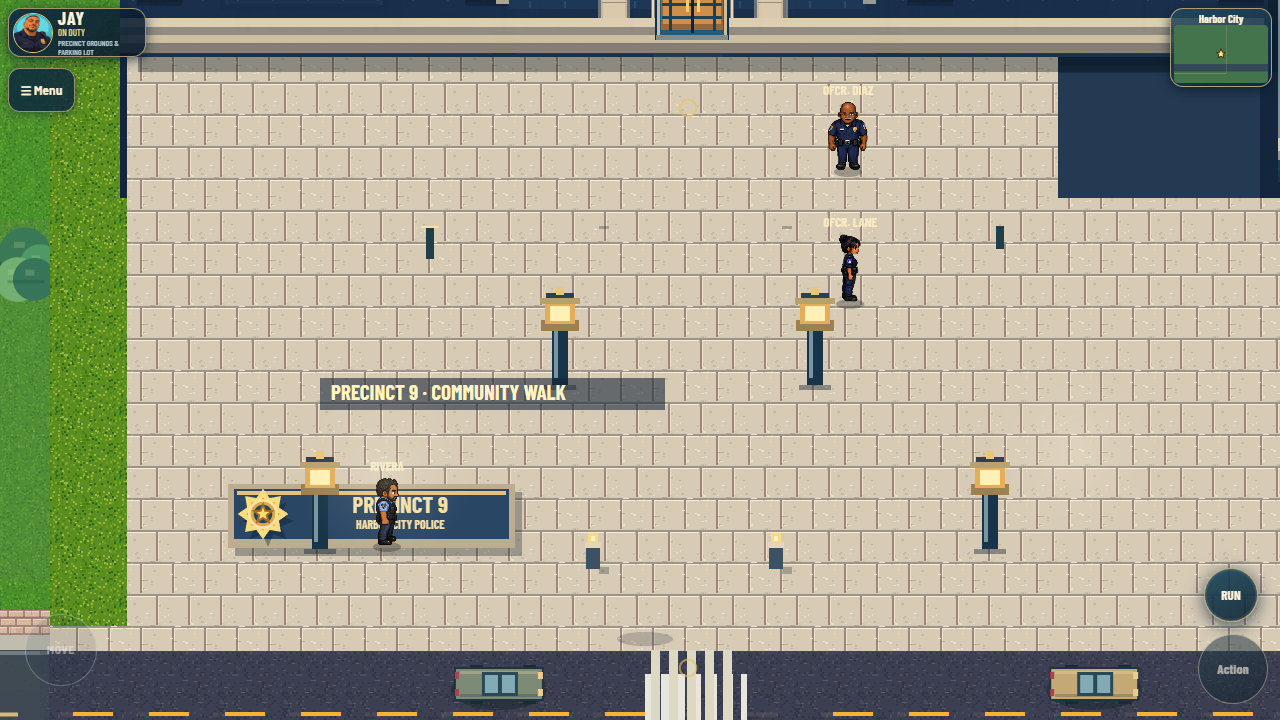
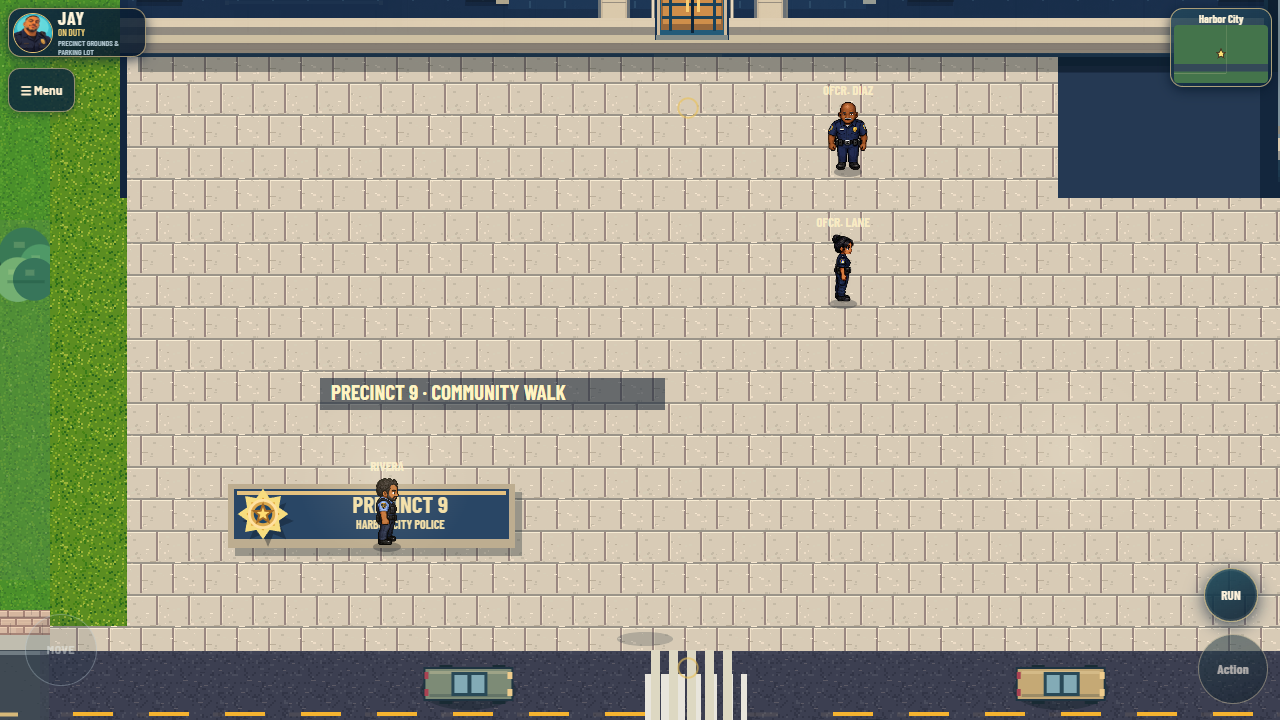
Remove large and small light posts from cleared precinct plaza

diff --git a/published-game-capture/v134-precinct-reference.js b/published-game-capture/v134-precinct-reference.js
@@ -466,11 +466,9 @@ function makeGround(){
  g.imageSmoothingEnabled=false;g.translate(-310,-1108);
  if(window.ROOKIE_V140_APPROVED_CAMPUS_ACTIVE){
    // The owner requested an entirely clear paved plaza. Keep the civic
-   // marker and lights, but no inherited flower boxes, palms or shrubs.
+   // marker, but no inherited lamps, posts, flower boxes, palms or shrubs.
    // V133 owns the continuous floor; this cache contributes no paving.
    plaque(g,488,1554,287);
-   for(const [x,y]of [[853,1288],[1036,1288],[853,1633],[1036,1633]])bollard(g,x,y);
-   for(const [x,y]of [[820,1455],[1075,1455],[580,1619],[1250,1619]])lamp(g,x,y,1);
    M.groundsBuilds++;return cv;
  }
  // Replace the under-designed dark asphalt band south of the main public

diff --git a/published-game-capture/v115-campus.js b/published-game-capture/v115-campus.js
@@ -707,7 +707,7 @@
        [1730,1510,36],[2140,1538,38],[2470,1140,29]];
     for(const [x,y,r] of trees)drawTree(x,y,r);
     const lamps=window.ROOKIE_V140_APPROVED_CAMPUS_ACTIVE?
-      [[690,1325],[1260,1315],[2301,1455]]:
+      [[2301,1455]]:
       [[690,1325],[1260,1315],[1950,1310]];
     for(const [x,y] of lamps){
       g.fillStyle='#203e49';g.fillRect(x-4,y-34,8,38);g.fillStyle='#fbe0a0';g.fillRect(x-9,y-37,18,10);

diff --git a/docs/PRECINCT9-OPTION-A-REVIEW.md b/docs/PRECINCT9-OPTION-A-REVIEW.md
@@ -10,7 +10,10 @@ the existing atlas repeats on its global pixel grid. V134's late forecourt
 uses that same grid without internal border bands. The old pilot furniture
 and glow passes are disabled in this layout, V115's two plaza trees are omitted,
 and V134 no longer contributes flower boxes or palms to the cleared area.
-The monument, lights, building entrances and collision remain intact.
+The monument, building entrances and collision remain intact. A further owner
+revision removes all four large freestanding plaza lamps, four small lighted
+bollards and two narrow legacy light posts from this same paved area. Building
+lighting, the parking-perimeter lamp and other districts retain their lighting.
 
 ![Cleared plaza, actual desktop game](review/plaza-cleared-desktop.png)
 
